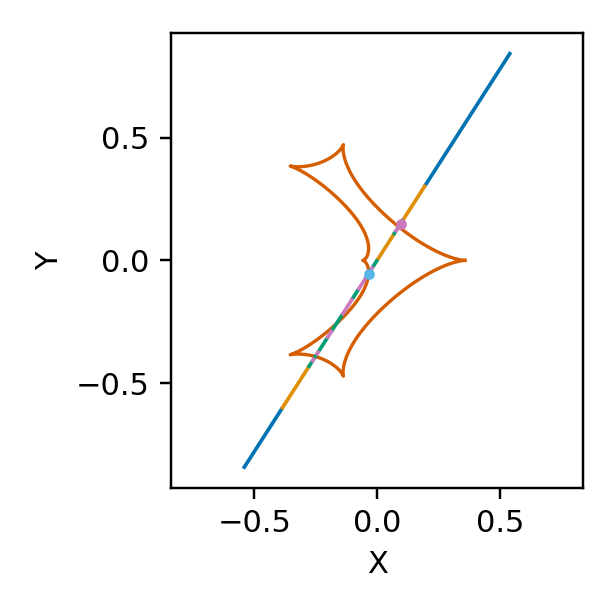
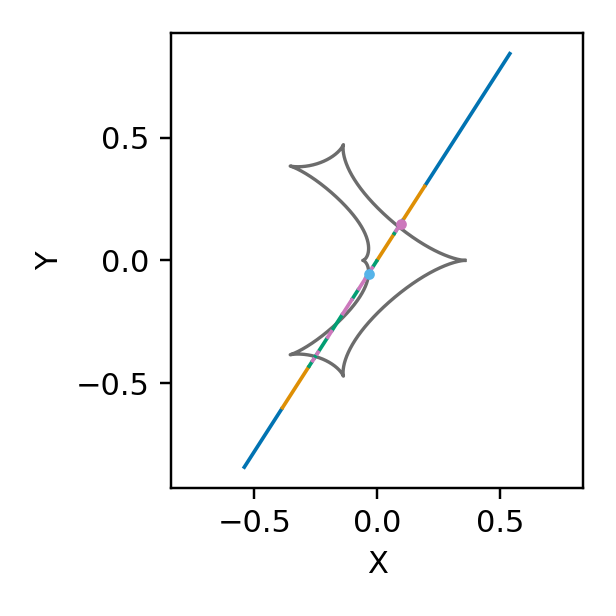
docs: mute accuracy geometry caustics

diff --git a/example/docs-python/generate_figures.py b/example/docs-python/generate_figures.py
@@ -436,7 +436,7 @@ def accuracy_method_selection():
     caustics = curve.caustics(params)
     plt.figure(figsize=(2.8, 2.8))
     for x, y in zip(caustics.x, caustics.y):
-        plt.plot(-np.asarray(x), -np.asarray(y), color="#D55E00", lw=1.1)
+        plt.plot(-np.asarray(x), -np.asarray(y), color="#6C6C6C", lw=1.1)
 
     display_x = -np.asarray(trajectory.x)
     display_y = -np.asarray(trajectory.y)

diff --git a/docs/python/AccuracyControl.md b/docs/python/AccuracyControl.md
@@ -158,7 +158,7 @@ caustics = curve.caustics(params)
 
 plt.figure(figsize=(2.8, 2.8))
 for x, y in zip(caustics.x, caustics.y):
-    plt.plot(-np.asarray(x), -np.asarray(y), color="#D55E00", lw=1.1)
+    plt.plot(-np.asarray(x), -np.asarray(y), color="#6C6C6C", lw=1.1)
 
 display_x = -np.asarray(trajectory.x)
 display_y = -np.asarray(trajectory.y)
